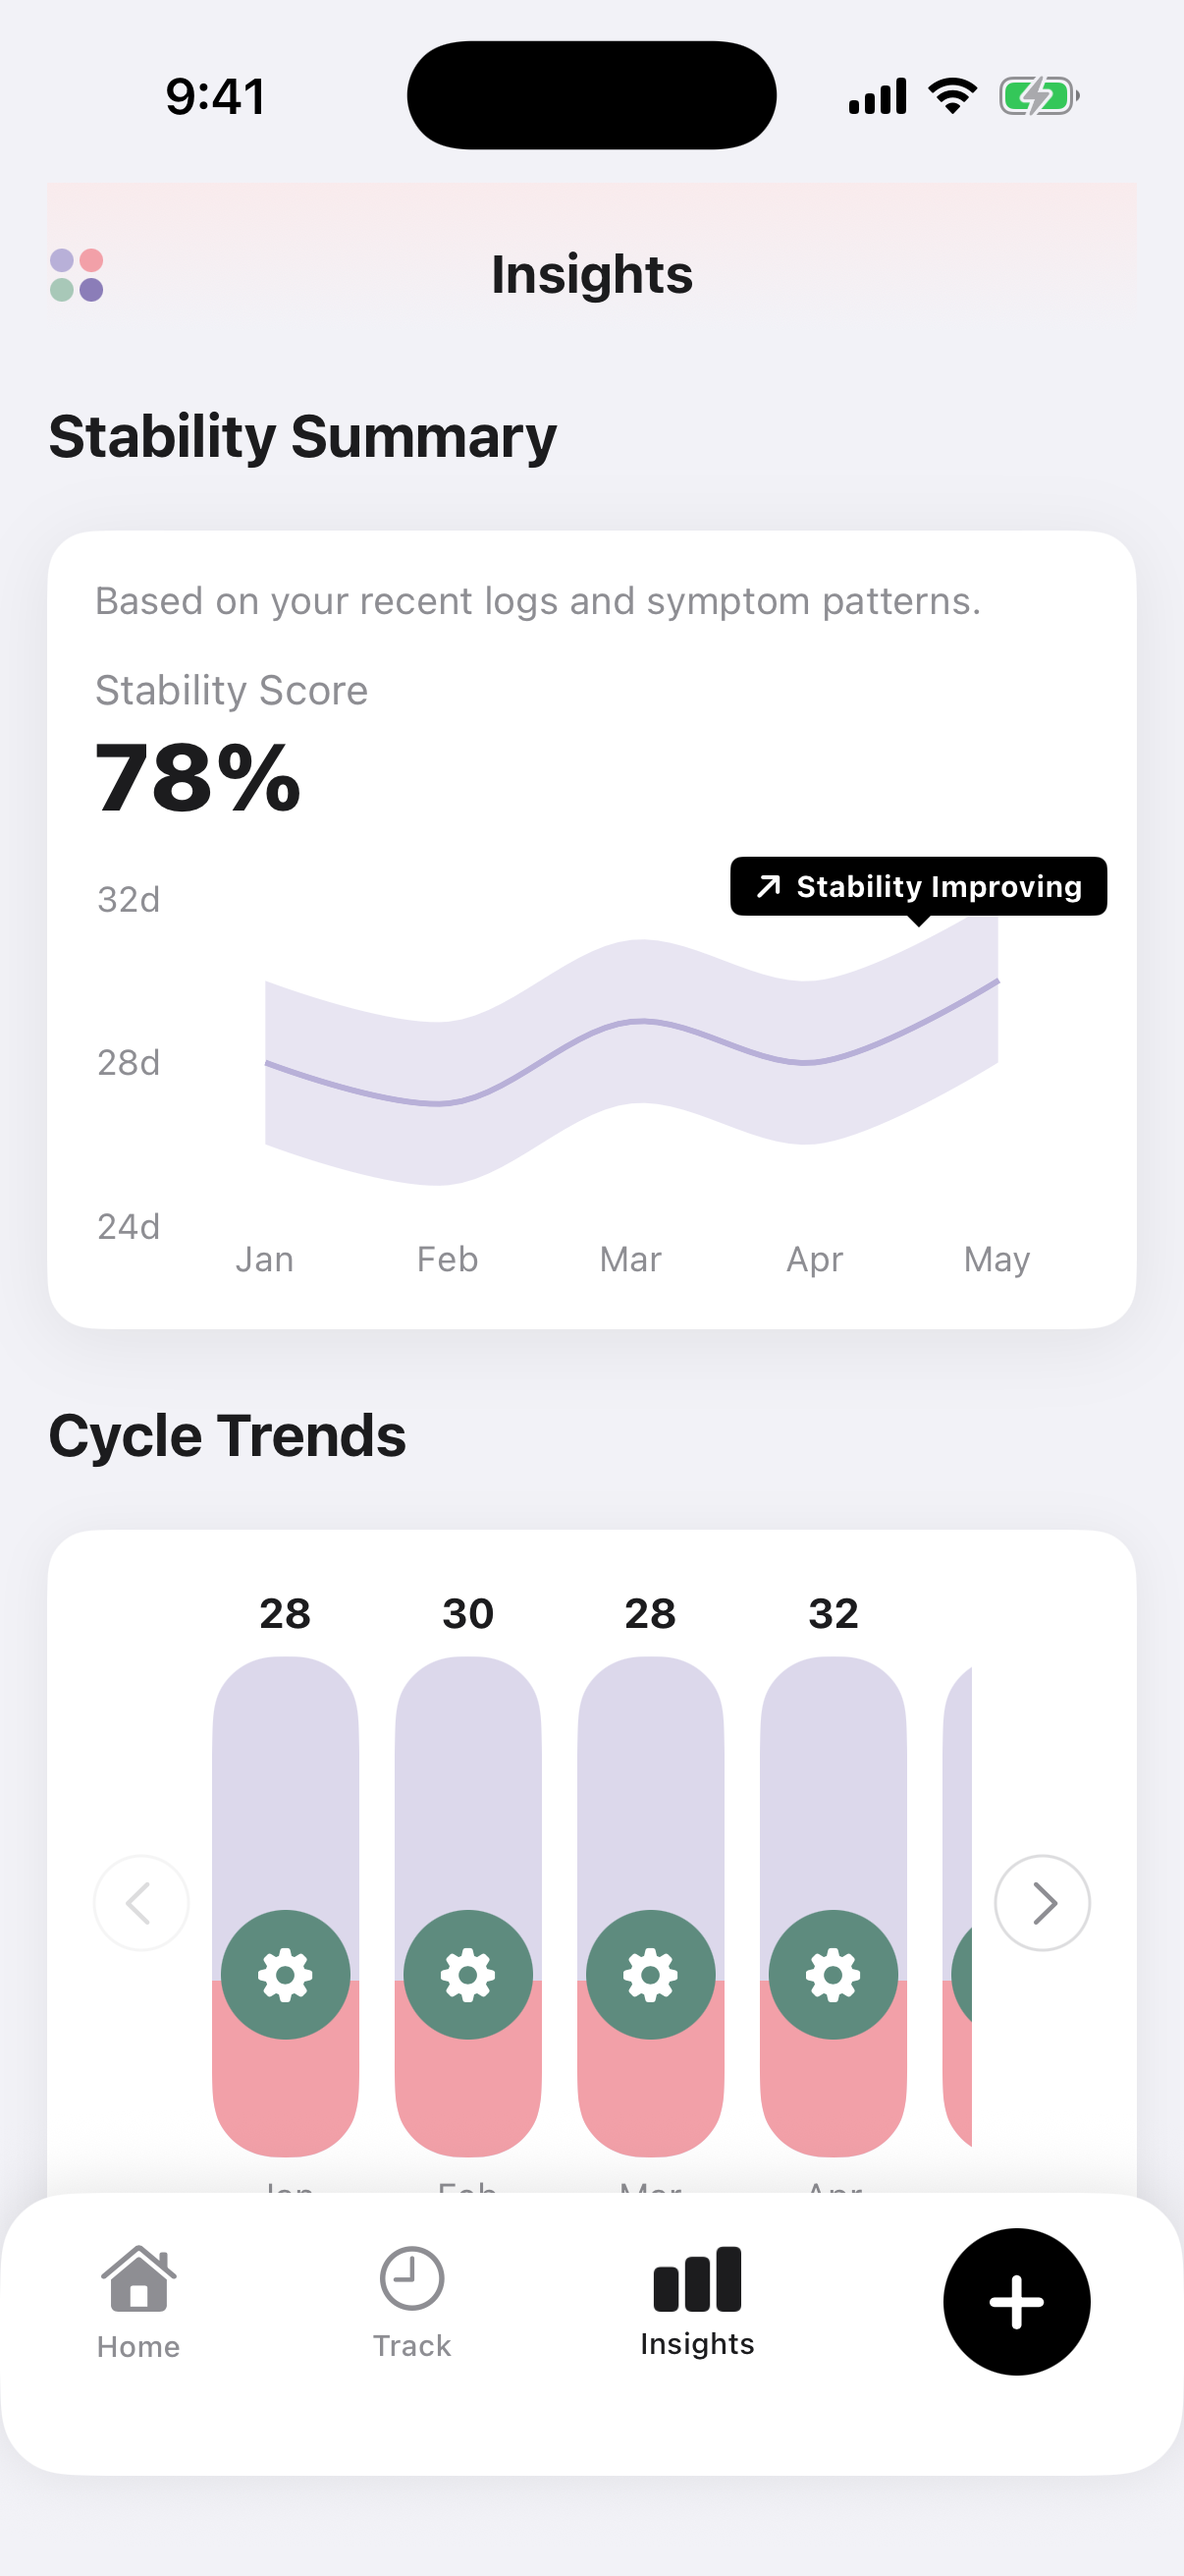
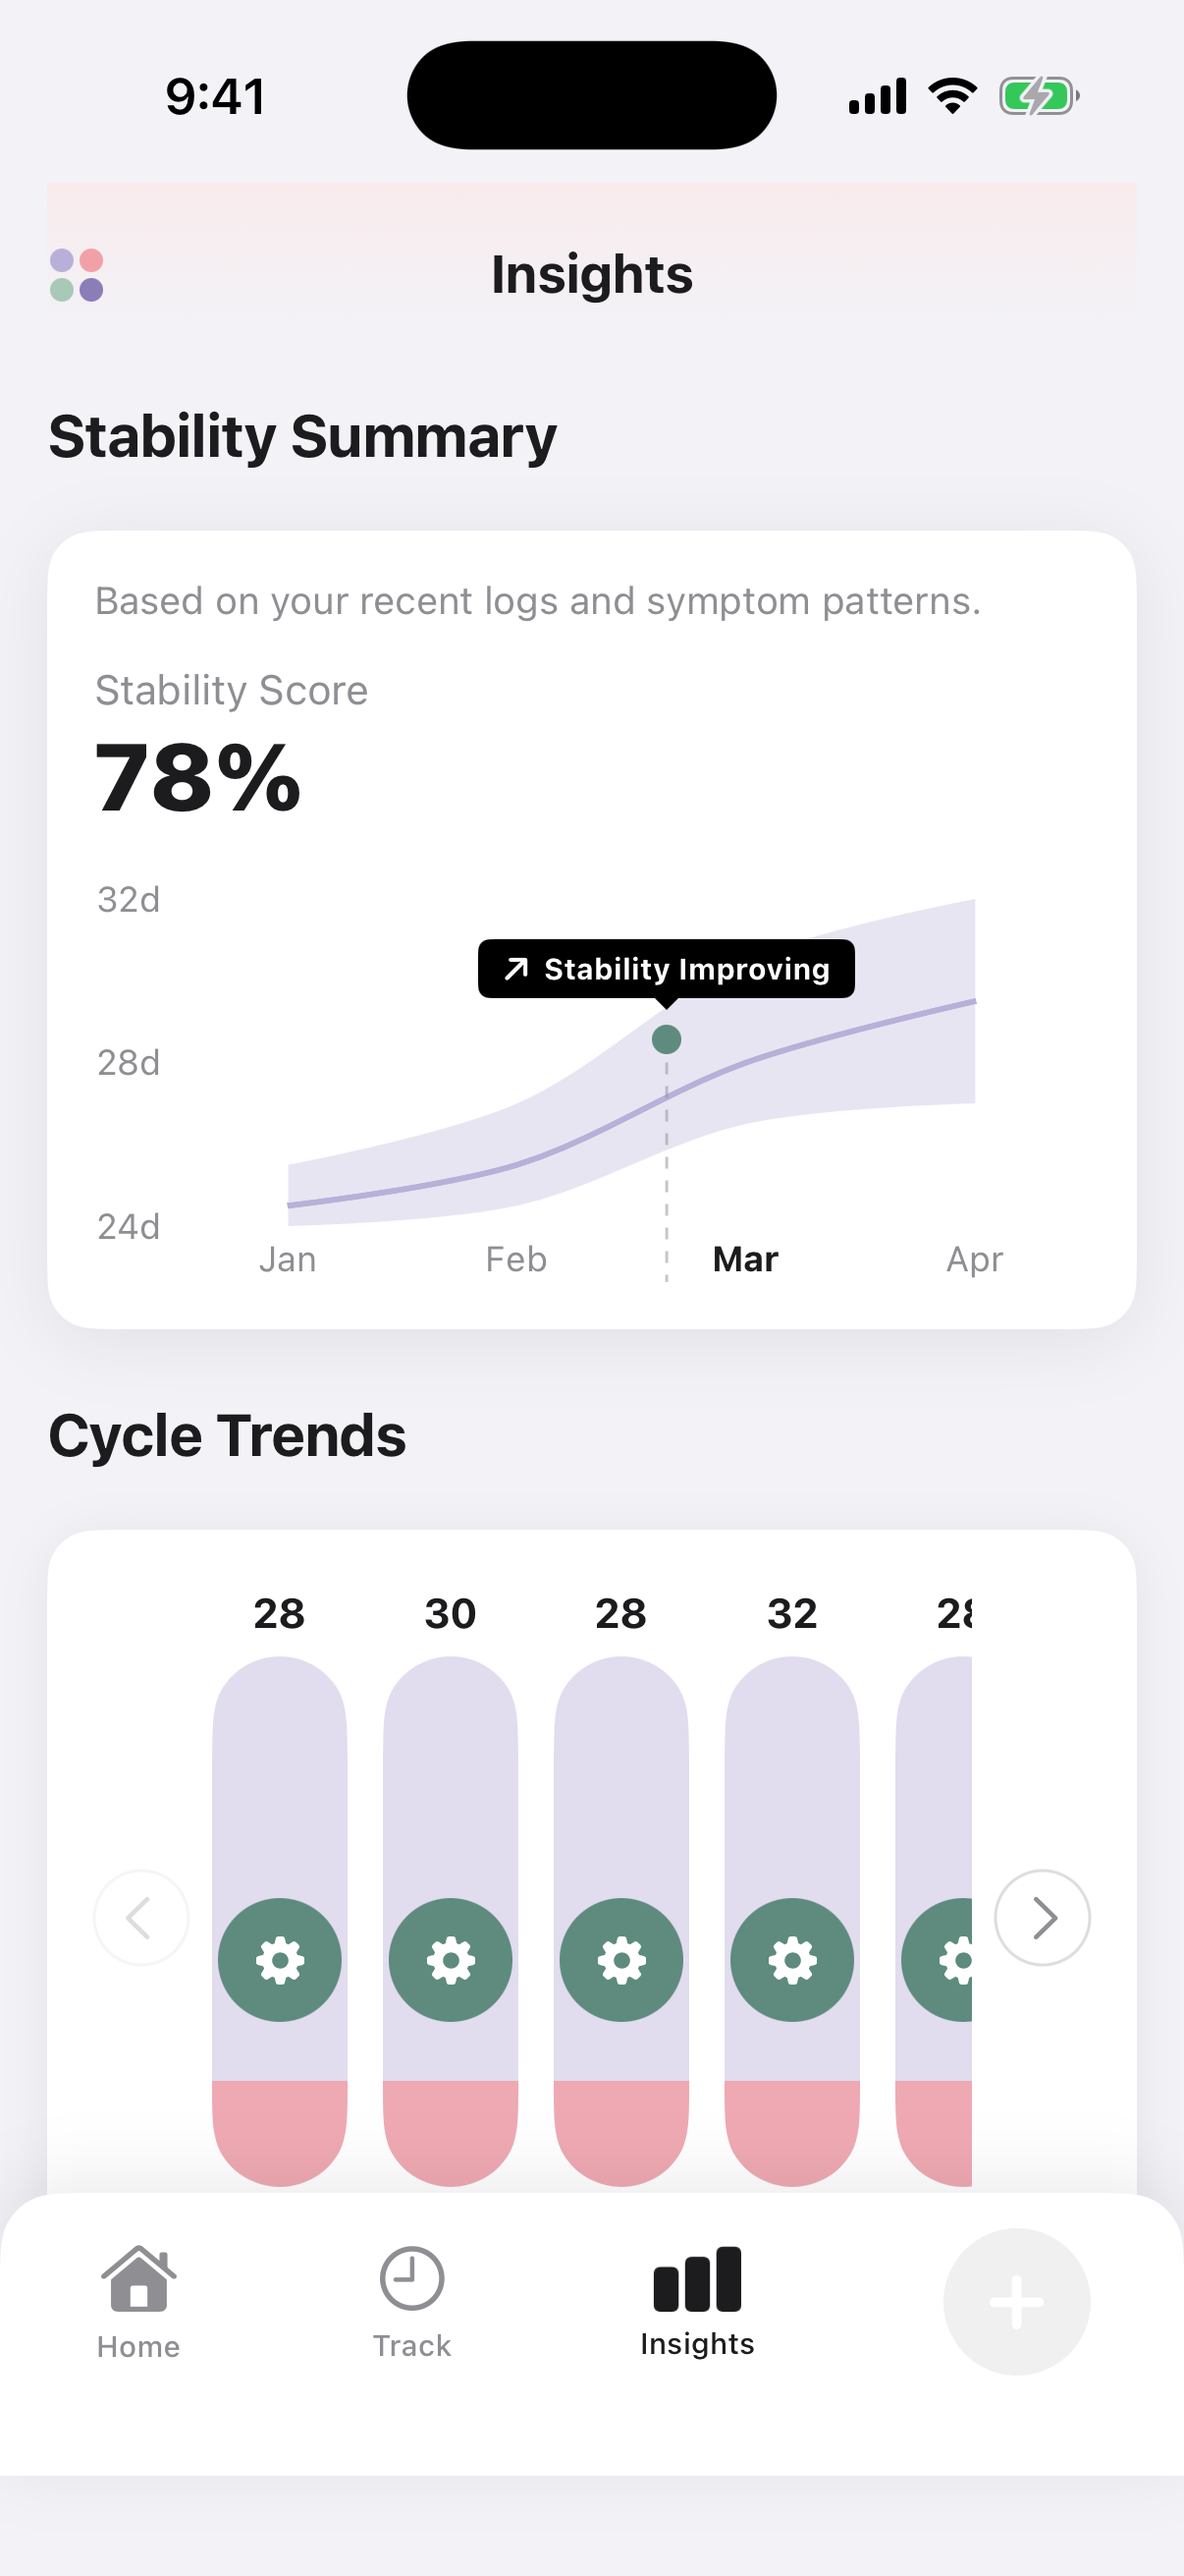
Final Figma design adjustments: refined stability chart, bar proportions, donut labels, and tab bar styling

diff --git a/CycleInsights/InsightsView.swift b/CycleInsights/InsightsView.swift
@@ -8,11 +8,10 @@ struct InsightsView: View {
     @State private var visibleStartIndex = 0
 
     private let stabilityData = [
-        StabilityDatum(month: "Jan", lower: 26, center: 28, upper: 30),
-        StabilityDatum(month: "Feb", lower: 25, center: 27, upper: 29),
-        StabilityDatum(month: "Mar", lower: 27, center: 29, upper: 31),
-        StabilityDatum(month: "Apr", lower: 26, center: 28, upper: 30),
-        StabilityDatum(month: "May", lower: 28, center: 30, upper: 32)
+        StabilityDatum(month: "Jan", lower: 24.0, center: 24.5, upper: 25.5),
+        StabilityDatum(month: "Feb", lower: 24.5, center: 25.5, upper: 27.0),
+        StabilityDatum(month: "Mar", lower: 26.5, center: 28.0, upper: 30.5),
+        StabilityDatum(month: "Apr", lower: 27.0, center: 29.5, upper: 32.0)
     ]
 
     private let cycleTrends = [
@@ -120,7 +119,7 @@ struct InsightsView: View {
                             .font(.system(size: 22, weight: .bold))
                             .foregroundColor(.white)
                             .frame(width: 50, height: 50)
-                            .background(Color.black)
+                            .background(Color(hex:"F0F0F0"))  // light grey, not black
                             .clipShape(Circle())
                     }
                     Spacer()
@@ -129,8 +128,13 @@ struct InsightsView: View {
                 .padding(.bottom, geometry.safeAreaInsets.bottom > 0 ? geometry.safeAreaInsets.bottom : 12)
                 .background(
                     Color.white
-                        .clipShape(RoundedRectangle(cornerRadius: 24, style: .continuous))
-                        .shadow(color: .black.opacity(0.1), radius: 10, x: 0, y: -2)
+                        .clipShape(
+                            UnevenRoundedRectangle(
+                                topLeadingRadius: 20, bottomLeadingRadius: 0,
+                                bottomTrailingRadius: 0, topTrailingRadius: 20
+                            )
+                        )
+                        .shadow(color: .black.opacity(0.08), radius: 12, x: 0, y: -4)
                 )
                 .ignoresSafeArea(edges: .bottom)
             }
@@ -277,8 +281,9 @@ private struct StabilitySummaryCard: View {
                     AxisValueLabel {
                         if let month = value.as(String.self) {
                             Text(month)
-                                .font(.system(size: 12))
-                                .foregroundColor(.subText)
+                                .font(.system(size: 12, 
+                                              weight: month == "Mar" ? .bold : .regular))
+                                .foregroundColor(month == "Mar" ? .darkText : .subText)
                         }
                     }
                 }
@@ -296,8 +301,8 @@ private struct StabilitySummaryCard: View {
             }
             .chartOverlay { proxy in
                 GeometryReader { geo in
-                    let month = data[data.count - 1].month
-                    let center = data[data.count - 1].center
+                    let month = data[2].month   // Mar
+                    let center = data[2].center // 28.0
                     
                     if let x = proxy.position(forX: month),
                        let y = proxy.position(forY: center) {
@@ -320,6 +325,20 @@ private struct StabilitySummaryCard: View {
                                 .frame(width: 8, height: 4)
                         }
                         .position(x: x, y: y - 22)
+
+                        // Dashed vertical line
+                        Path { path in
+                            path.move(to: CGPoint(x: x, y: y))
+                            path.addLine(to: CGPoint(x: x, y: geo.size.height))
+                        }
+                        .stroke(style: StrokeStyle(lineWidth: 1, dash: [4]))
+                        .foregroundColor(Color.gray.opacity(0.5))
+                        
+                        // Green dot at data point
+                        Circle()
+                            .fill(Color(hex: "5E8B7E"))
+                            .frame(width: 10, height: 10)
+                            .position(x: x, y: y)
                     }
                 }
             }
@@ -402,33 +421,31 @@ private struct CycleTrendBar: View {
                 .foregroundColor(.darkText)
 
             ZStack(alignment: .bottom) {
-                // Lavender pill (full bar, rounded top only)
-                RoundedRectangle(cornerRadius: 22)
-                    .fill(Color(hex: "C4BEDE").opacity(0.6))
-                    .frame(width: 50, height: 170)
-
-                // Pink bottom section
+                // Full lavender pill
+                RoundedRectangle(cornerRadius: 24)
+                    .fill(Color(hex: "C8C0E0").opacity(0.55))
+                    .frame(width: 46, height: 180)
+                
+                // Small pink bottom ONLY — 36pt tall
                 UnevenRoundedRectangle(
-                    topLeadingRadius: 0,
-                    bottomLeadingRadius: 22,
-                    bottomTrailingRadius: 22,
-                    topTrailingRadius: 0
+                    topLeadingRadius: 0, bottomLeadingRadius: 24,
+                    bottomTrailingRadius: 24, topTrailingRadius: 0
                 )
-                .fill(Color(hex: "F2A0A8"))
-                .frame(width: 50, height: 60)
-
-                // Gear circle at junction point
+                .fill(Color(hex: "F2A0A8").opacity(0.85))
+                .frame(width: 46, height: 36)
+                
+                // Gear circle — positioned higher up
                 Circle()
                     .fill(Color(hex: "5E8B7E"))
-                    .frame(width: 44, height: 44)
+                    .frame(width: 42, height: 42)
                     .overlay(
                         Image(systemName: "gearshape.fill")
                             .foregroundColor(.white)
-                            .font(.system(size: 18))
+                            .font(.system(size: 16))
                     )
-                    .offset(y: -40)
+                    .offset(y: -56)  // higher position
             }
-            .frame(width: 50, height: 170)
+            .frame(width: 46, height: 180)
 
             Text(datum.month)
                 .font(.system(size: 12))
@@ -578,7 +595,7 @@ private struct SymptomDonutCard: View {
                 // Draw donut ring
                 Canvas { context, size in
                     let center = CGPoint(x: size.width / 2, y: size.height / 2)
-                    let outerR: CGFloat = 90
+                    let outerR: CGFloat = 80
                     let innerR: CGFloat = 54
                     var startAngle = Angle.degrees(-90)
                     
@@ -599,7 +616,7 @@ private struct SymptomDonutCard: View {
                         startAngle = startAngle + sweep
                     }
                 }
-                .frame(width: 280, height: 280)
+                .frame(width: 240, height: 240)
                 
                 // White hole
                 Circle()
@@ -607,7 +624,7 @@ private struct SymptomDonutCard: View {
                     .frame(width: 108, height: 108)
                 
                 // Labels positioned at mid-angle of each segment
-                ForEach(labelPositions(canvasSize: 280, outerR: 90), id: \.name) { item in
+                ForEach(labelPositions(canvasSize: 320, outerR: 80), id: \.name) { item in
                     VStack(spacing: 1) {
                         Text(item.percent)
                             .font(.system(size: 13, weight: .bold))
@@ -624,7 +641,7 @@ private struct SymptomDonutCard: View {
                     .position(x: item.x, y: item.y)
                 }
             }
-            .frame(width: 280, height: 280)
+            .frame(width: 320, height: 320)
             .frame(maxWidth: .infinity)  // center horizontally
         }
         .cardStyle()
@@ -638,8 +655,8 @@ private struct SymptomDonutCard: View {
     }
     
     private func labelPositions(canvasSize: CGFloat, outerR: CGFloat) -> [LabelItem] {
-        let center = canvasSize / 2
-        let labelR = outerR + 52  // distance from center to label
+        let center = canvasSize / 2  // = 160
+        let labelR = outerR + 58
         var result: [LabelItem] = []
         var currentAngle = -90.0
         
